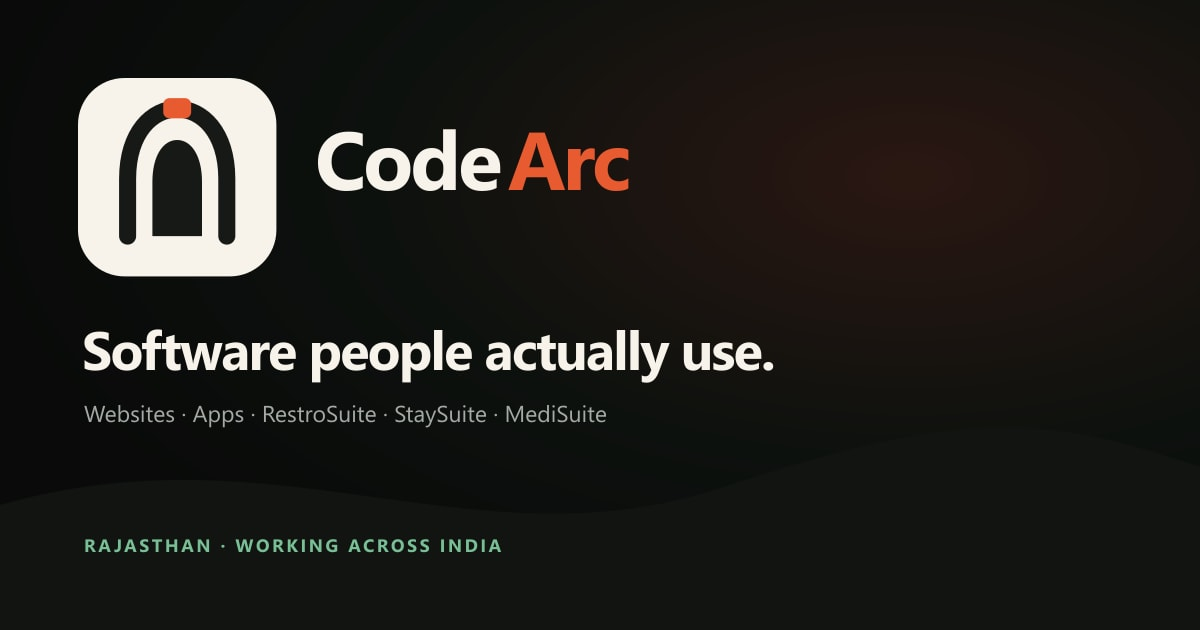
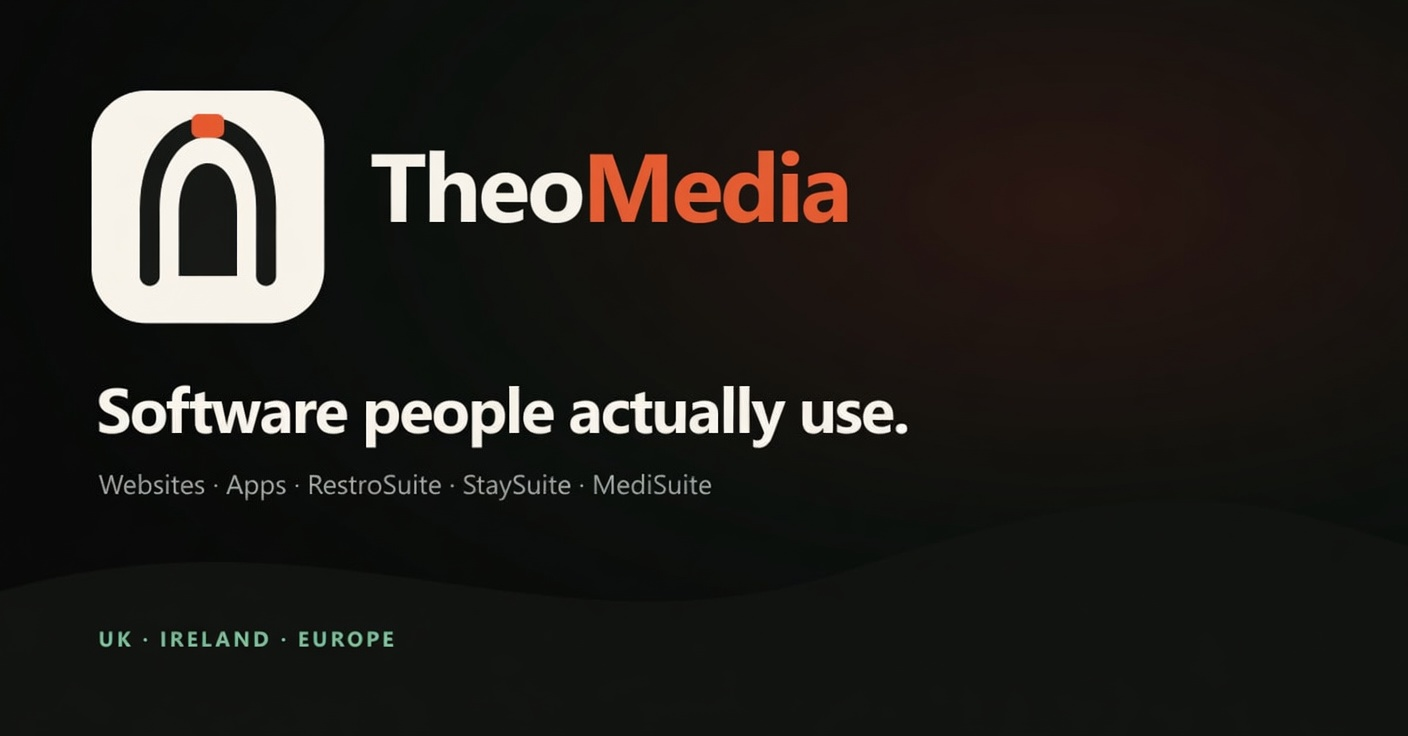
Fix WhatsApp link preview: restore og:image and TheoMedia share card.
Homepage openGraph was overriding layout metadata without images, so
WhatsApp only showed a bare URL. Add shared socialMetadata helper, brand
OG image (TheoMedia + UK/IE/EU), and absolute www canonical.

diff --git a/src/app/layout.tsx b/src/app/layout.tsx
@@ -4,6 +4,7 @@ import ScrollToTop from '../components/ScrollToTop';
 import FloatingContact from '../components/FloatingContact';
 import BrandIntro from '../components/BrandIntro';
 import { site } from '../config/site';
+import { ogImage, socialMetadata } from '../lib/seo';
 import './globals.css';
 
 const sans = Manrope({
@@ -39,30 +40,22 @@ export const metadata: Metadata = {
   authors: [{ name: site.brand, url: site.domain }],
   creator: site.brand,
   publisher: site.brand,
-  openGraph: {
-    type: 'website',
-    locale: site.openGraphLocale,
-    siteName: site.brand,
+  ...socialMetadata({
     title: site.seo.defaultTitle,
     description: site.seo.description,
-    images: [
-      {
-        url: '/brand/theomedia-og.jpg',
-        width: 1200,
-        height: 630,
-        alt: site.brand,
-      },
-    ],
-  },
-  twitter: {
-    card: 'summary_large_image',
-    title: site.seo.defaultTitle,
-    description: site.seo.description,
-    images: ['/brand/theomedia-og.jpg'],
-  },
+    url: site.domain,
+  }),
   icons: {
-    icon: [{ url: '/favicon.svg', type: 'image/svg+xml' }],
+    icon: [
+      { url: '/favicon.svg', type: 'image/svg+xml' },
+      { url: '/brand/theomedia-mark.svg', type: 'image/svg+xml' },
+    ],
     apple: [{ url: '/brand/theomedia-mark.svg' }],
+  },
+  // Explicit absolute image for crawlers that ignore relative openGraph.images
+  other: {
+    'og:image:width': String(ogImage.width),
+    'og:image:height': String(ogImage.height),
   },
 };
 

diff --git a/src/app/blog/[slug]/page.tsx b/src/app/blog/[slug]/page.tsx
@@ -6,6 +6,7 @@ import Footer from '../../../components/Footer';
 import ContactForm from '../../../components/ContactForm';
 import { blogPosts } from '../../../data/blog';
 import { formatBlogDate } from '../../../lib/dates';
+import { socialMetadata } from '../../../lib/seo';
 
 export const dynamicParams = false;
 
@@ -22,6 +23,10 @@ export async function generateMetadata(props: { params: Promise<{ slug: string }
 
   const title = post.metaTitle.replace(/\s*\|\s*TheoMedia\s*$/i, '');
 
+  const ogTitle = post.metaTitle.includes('TheoMedia')
+    ? post.metaTitle
+    : `${post.title} | TheoMedia`;
+
   return {
     title,
     description: post.metaDescription,
@@ -29,21 +34,13 @@ export async function generateMetadata(props: { params: Promise<{ slug: string }
     alternates: {
       canonical: `https://theomedia.co.uk/blog/${params.slug}`,
     },
-    openGraph: {
-      title: post.metaTitle.includes('TheoMedia') ? post.metaTitle : `${post.title} | TheoMedia`,
+    ...socialMetadata({
+      title: ogTitle,
       description: post.metaDescription,
+      url: `https://theomedia.co.uk/blog/${params.slug}`,
       type: 'article',
       publishedTime: post.date,
-      url: `https://theomedia.co.uk/blog/${params.slug}`,
-      images: [
-        {
-          url: '/brand/theomedia-og.jpg',
-          width: 1200,
-          height: 630,
-          alt: post.title,
-        },
-      ],
-    },
+    }),
   };
 }
 

diff --git a/src/app/[slug]/page.tsx b/src/app/[slug]/page.tsx
@@ -15,6 +15,7 @@ import Navbar from '../../components/Navbar';
 import Footer from '../../components/Footer';
 import ContactForm from '../../components/ContactForm';
 import { servicesData, type ServiceIconName } from '../../data/services';
+import { socialMetadata } from '../../lib/seo';
 
 export const dynamicParams = false;
 
@@ -44,6 +45,10 @@ export async function generateMetadata(props: { params: Promise<{ slug: string }
 
   const title = service.metaTitle.replace(/\s*\|\s*TheoMedia\s*$/i, '');
 
+  const ogTitle = service.metaTitle.includes('TheoMedia')
+    ? service.metaTitle
+    : `${service.title} | TheoMedia`;
+
   return {
     title,
     description: service.metaDescription,
@@ -51,19 +56,11 @@ export async function generateMetadata(props: { params: Promise<{ slug: string }
     alternates: {
       canonical: `https://theomedia.co.uk/${params.slug}`,
     },
-    openGraph: {
-      title: service.metaTitle.includes('TheoMedia') ? service.metaTitle : `${service.title} | TheoMedia`,
+    ...socialMetadata({
+      title: ogTitle,
       description: service.metaDescription,
       url: `https://theomedia.co.uk/${params.slug}`,
-      images: [
-        {
-          url: '/brand/theomedia-og.jpg',
-          width: 1200,
-          height: 630,
-          alt: `${service.title} | TheoMedia`,
-        },
-      ],
-    },
+    }),
   };
 }
 

diff --git a/src/lib/seo.ts b/src/lib/seo.ts
@@ -1,0 +1,47 @@
+import type { Metadata } from 'next';
+import { site } from '../config/site';
+
+/** Absolute OG/Twitter share image (WhatsApp, LinkedIn, iMessage, etc.) */
+export const OG_IMAGE_PATH = '/brand/theomedia-og.jpg';
+
+export const ogImage = {
+  url: OG_IMAGE_PATH,
+  width: 1200,
+  height: 630,
+  alt: `${site.brand} — websites, apps and business software for ${site.region.label}`,
+  type: 'image/jpeg',
+} as const;
+
+/**
+ * Full Open Graph + Twitter card block for share previews.
+ * Always include images — page-level openGraph that omits images
+ * strips the layout default and WhatsApp shows a bare link.
+ */
+export function socialMetadata(options: {
+  title: string;
+  description: string;
+  url: string;
+  type?: 'website' | 'article';
+  publishedTime?: string;
+}): Pick<Metadata, 'openGraph' | 'twitter'> {
+  const { title, description, url, type = 'website', publishedTime } = options;
+
+  return {
+    openGraph: {
+      type,
+      locale: site.openGraphLocale,
+      siteName: site.brand,
+      title,
+      description,
+      url,
+      images: [ogImage],
+      ...(publishedTime ? { publishedTime } : {}),
+    },
+    twitter: {
+      card: 'summary_large_image',
+      title,
+      description,
+      images: [OG_IMAGE_PATH],
+    },
+  };
+}

diff --git a/src/app/products/[slug]/page.tsx b/src/app/products/[slug]/page.tsx
@@ -8,6 +8,7 @@ import Footer from '../../../components/Footer';
 import { mailTo, site, whatsappUrl } from '../../../config/site';
 import { getProduct, productsData, productStatusClass, statusLabel } from '../../../data/products';
 import { plansForProduct } from '../../../data/pricing';
+import { socialMetadata } from '../../../lib/seo';
 
 export const dynamicParams = false;
 
@@ -27,12 +28,11 @@ export async function generateMetadata(props: {
     alternates: {
       canonical: `${site.domain}/products/${product.slug}`,
     },
-    openGraph: {
-      title: `${product.metaTitle} | TheoMedia`,
+    ...socialMetadata({
+      title: `${product.metaTitle} | ${site.brand}`,
       description: product.metaDescription,
-      url: `https://theomedia.co.uk/products/${product.slug}`,
-      images: [{ url: product.image, alt: product.name }],
-    },
+      url: `${site.domain}/products/${product.slug}`,
+    }),
   };
 }
 

diff --git a/src/app/blog/page.tsx b/src/app/blog/page.tsx
@@ -3,16 +3,24 @@ import Link from 'next/link';
 import { Calendar, ArrowRight } from 'lucide-react';
 import Navbar from '../../components/Navbar';
 import Footer from '../../components/Footer';
+import { site } from '../../config/site';
 import { listedBlogPosts } from '../../data/blog';
 import { formatBlogDate } from '../../lib/dates';
+import { socialMetadata } from '../../lib/seo';
 
 export const metadata: Metadata = {
   title: 'Blog',
   description:
     'Notes from TheoMedia on websites, cost, SEO, and building software without the jargon.',
   alternates: {
-    canonical: 'https://theomedia.co.uk/blog',
+    canonical: `${site.domain}/blog`,
   },
+  ...socialMetadata({
+    title: `Blog | ${site.brand}`,
+    description:
+      'Notes from TheoMedia on websites, cost, SEO, and building software without the jargon.',
+    url: `${site.domain}/blog`,
+  }),
 };
 
 export default function BlogListingPage() {

diff --git a/src/app/pay/page.tsx b/src/app/pay/page.tsx
@@ -6,16 +6,17 @@ import PayPlans from '../../components/PayPlans';
 import { mailTo, site } from '../../config/site';
 import { getPaymentPlan } from '../../data/pricing';
 import { isOnlineCheckoutEnabled, paymentStatusMessage } from '../../lib/payments';
+import { socialMetadata } from '../../lib/seo';
 
 export const metadata: Metadata = {
   title: 'Pay',
   description: `GBP pricing for ${site.brand} products and project deposits. Stripe card checkout coming soon; invoice and bank transfer available now.`,
   alternates: { canonical: `${site.domain}/pay` },
-  openGraph: {
+  ...socialMetadata({
     title: `Pay | ${site.brand}`,
     description: `${site.currency.code} plans for ${site.brand}. Stripe coming soon.`,
     url: `${site.domain}/pay`,
-  },
+  }),
 };
 
 export default async function PayPage(props: {

diff --git a/src/app/case-studies/[id]/page.tsx b/src/app/case-studies/[id]/page.tsx
@@ -6,6 +6,7 @@ import Navbar from '../../../components/Navbar';
 import Footer from '../../../components/Footer';
 import { mailTo, site } from '../../../config/site';
 import { caseStudiesData } from '../../../data/case-studies';
+import { socialMetadata } from '../../../lib/seo';
 
 export const dynamicParams = false;
 
@@ -25,12 +26,11 @@ export async function generateMetadata(props: { params: Promise<{ id: string }> 
     alternates: {
       canonical: `https://theomedia.co.uk/case-studies/${params.id}`,
     },
-    openGraph: {
+    ...socialMetadata({
       title: study.metaTitle,
       description: study.metaDescription,
       url: `https://theomedia.co.uk/case-studies/${params.id}`,
-      images: [{ url: study.image, alt: study.title }],
-    },
+    }),
   };
 }
 

diff --git a/src/app/products/page.tsx b/src/app/products/page.tsx
@@ -6,6 +6,7 @@ import Navbar from '../../components/Navbar';
 import Footer from '../../components/Footer';
 import { mailTo, site, whatsappUrl } from '../../config/site';
 import { productsData, productStatusClass, statusLabel } from '../../data/products';
+import { socialMetadata } from '../../lib/seo';
 
 export const metadata: Metadata = {
   title: 'Products',
@@ -13,11 +14,11 @@ export const metadata: Metadata = {
   alternates: {
     canonical: `${site.domain}/products`,
   },
-  openGraph: {
+  ...socialMetadata({
     title: `Products | ${site.brand}`,
     description: `RestroSuite, StaySuite and MediSuite — vertical products from ${site.brand}.`,
     url: `${site.domain}/products`,
-  },
+  }),
 };
 
 export default function ProductsPage() {

diff --git a/src/app/page.tsx b/src/app/page.tsx
@@ -9,6 +9,7 @@ import ProductPreview from '../components/ProductPreview';
 import { productsData, productStatusClass, statusLabel } from '../data/products';
 import { caseStudiesData } from '../data/case-studies';
 import { mailTo, site } from '../config/site';
+import { socialMetadata } from '../lib/seo';
 
 export const metadata: Metadata = {
   title: {
@@ -16,11 +17,11 @@ export const metadata: Metadata = {
   },
   description: site.seo.description,
   alternates: { canonical: `${site.domain}/` },
-  openGraph: {
-    url: `${site.domain}/`,
+  ...socialMetadata({
     title: site.seo.defaultTitle,
     description: site.seo.description,
-  },
+    url: `${site.domain}/`,
+  }),
 };
 
 /** Shipped work — cards open our case study pages */

diff --git a/src/config/site.test.ts b/src/config/site.test.ts
@@ -8,7 +8,7 @@ describe('TheoMedia market config', () => {
     expect(site.tax.label).toBe('VAT');
     expect(site.email).toBe('hello@theomedia.co.uk');
     expect(site.phone.whatsapp).toBe('353852258004');
-    expect(site.domain).toContain('theomedia.co.uk');
+    expect(site.domain).toMatch(/theomedia\.co\.uk/);
   });
 
   it('points sister traffic to CodeArc India', () => {

diff --git a/src/config/site.ts b/src/config/site.ts
@@ -10,7 +10,8 @@ export const site = {
   market: 'GB' as const satisfies MarketId,
   brand: 'TheoMedia',
   legalName: 'TheoMedia',
-  domain: 'https://theomedia.co.uk',
+  /** Canonical origin (no www). Both apex and www resolve on Vercel. */
+  domain: 'https://www.theomedia.co.uk',
   email: 'hello@theomedia.co.uk',
 
   phone: {
